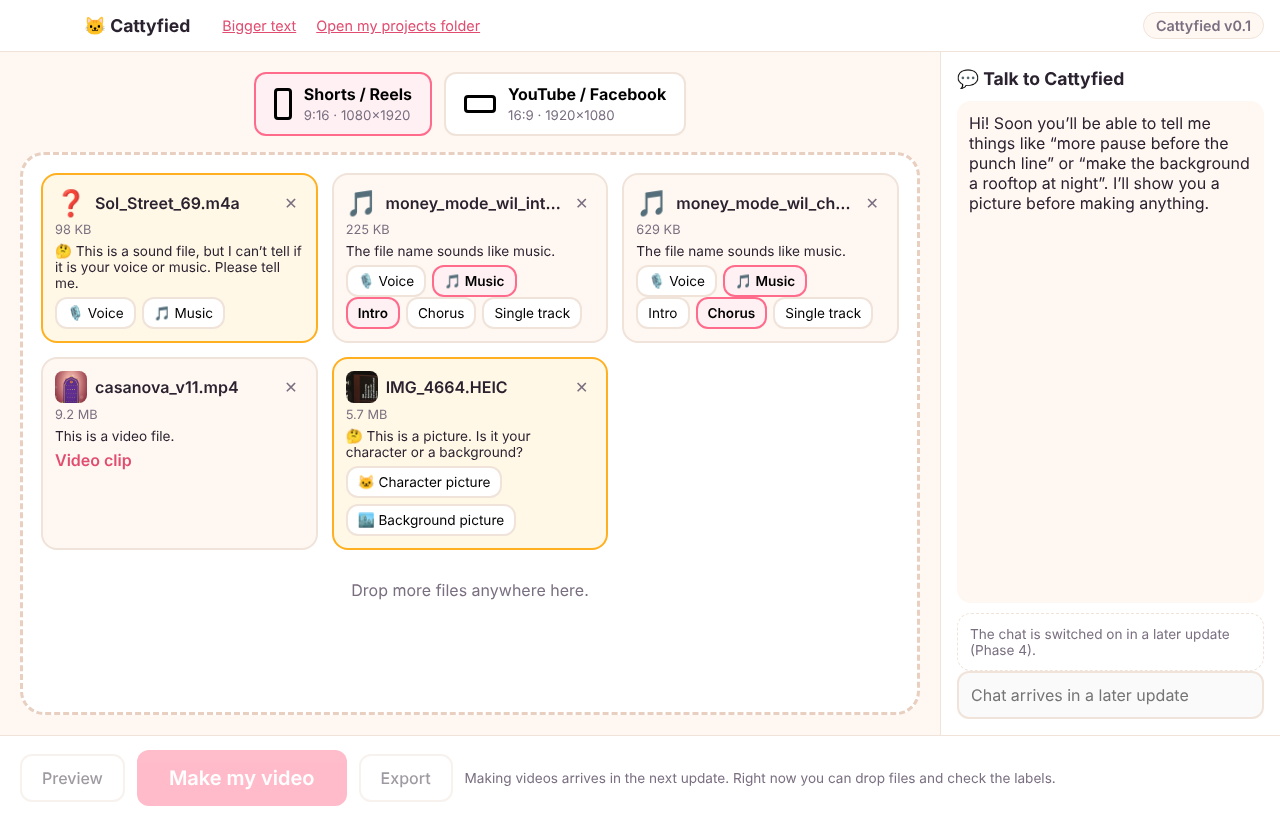
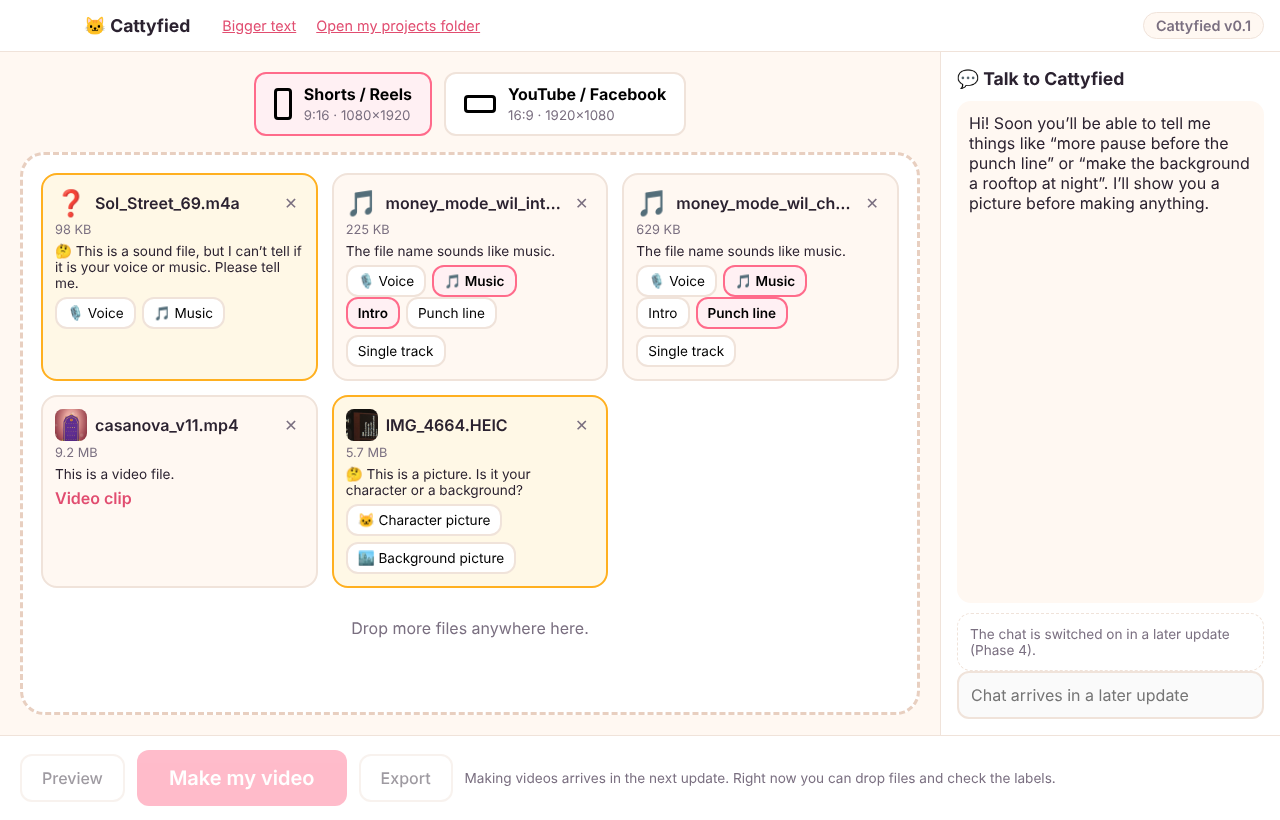
Rename the 'Chorus' music tag to 'Punch line'
Claude-Session: https://claude.ai/code/session_01B3wwg5k7oKN67GuHprANN3

Changed region(s): [[0.0312, 0.3659, 0.5625, 0.7317], [0.2812, 0.7622, 0.4688, 0.7927], [0.5625, 0.3659, 0.6875, 0.3963]]

diff --git a/src/engine/classify.ts b/src/engine/classify.ts
@@ -20,21 +20,22 @@ export interface Guess {
 }
 
 /**
- * When a music file is part of an intro→chorus pair (see the brief, section 5.5): the intro plays
- * first and ends on a hit, the chorus then starts at that hit. "main" = a single, standalone bed.
+ * When a music file is part of an intro→punch-line pair (see the brief, section 5.5): the intro
+ * plays first and ends on a hit; the punch-line track then starts right at that hit, timed to the
+ * character's line. "main" = a single, standalone bed with no separate intro.
  */
-export type MusicRole = 'intro' | 'chorus' | 'main'
+export type MusicRole = 'intro' | 'punchline' | 'main'
 
 const INTRO_WORDS = ['intro', 'into', 'lead-in', 'leadin', 'open', 'opening', 'buildup', 'build-up']
-const CHORUS_WORDS = ['chorus', 'hook', 'drop', 'main', 'loop']
+const PUNCHLINE_WORDS = ['chorus', 'hook', 'drop', 'main', 'loop', 'punch', 'punchline']
 
-/** Guess whether a music file is the intro or the chorus/main part, from its file name only. */
+/** Guess whether a music file is the intro or the punch-line part, from its file name only. */
 export function guessMusicRole(fileName: string): { role: MusicRole; ambiguous: boolean } {
   const ws = words(fileName)
   const i = hits(ws, INTRO_WORDS)
-  const c = hits(ws, CHORUS_WORDS)
-  if (i > c) return { role: 'intro', ambiguous: false }
-  if (c > i) return { role: 'chorus', ambiguous: false }
+  const p = hits(ws, PUNCHLINE_WORDS)
+  if (i > p) return { role: 'intro', ambiguous: false }
+  if (p > i) return { role: 'punchline', ambiguous: false }
   return { role: 'main', ambiguous: true }
 }
 

diff --git a/src/renderer/src/components/DropZone.tsx b/src/renderer/src/components/DropZone.tsx
@@ -18,7 +18,7 @@ const ICON: Record<AssetKind, string> = {
   voice: '🎙', music: '🎵', character: '🐱', background: '🏙', video: '🎬', notes: '📝', unknown: '❓'
 }
 
-const ROLE_LABEL: Record<MusicRole, string> = { intro: 'Intro', chorus: 'Chorus', main: 'Single track' }
+const ROLE_LABEL: Record<MusicRole, string> = { intro: 'Intro', punchline: 'Punch line', main: 'Single track' }
 
 function prettySize(n: number): string {
   if (n > 1e9) return `${(n / 1e9).toFixed(1)} GB`
@@ -120,9 +120,9 @@ export default function DropZone({ cards, setCards }: { cards: AssetCard[]; setC
 
                   {c.kind === 'music' && (
                     <>
-                      {needsRole && <div className="card-reason">🤔 Does this play first (intro) or is it the main part (chorus)?</div>}
+                      {needsRole && <div className="card-reason">🤔 Does this play first (intro), or is it the part that plays on the punch line?</div>}
                       <div className="card-labels">
-                        {(['intro', 'chorus', 'main'] as MusicRole[]).map((r) => (
+                        {(['intro', 'punchline', 'main'] as MusicRole[]).map((r) => (
                           <button
                             key={r}
                             className={`chip ${c.musicRole === r && c.roleKnown ? 'on' : ''}`}

diff --git a/tests/engine.test.ts b/tests/engine.test.ts
@@ -31,10 +31,10 @@ describe('file labelling', () => {
   })
 })
 
-describe('intro vs chorus music', () => {
-  it('spots the intro and chorus files from a real pair', () => {
+describe('intro vs punch-line music', () => {
+  it('spots the intro and punch-line files from a real pair', () => {
     expect(guessMusicRole('money_mode_wil_intro.mp3')).toEqual({ role: 'intro', ambiguous: false })
-    expect(guessMusicRole('money_mode_wil_chorus_1.mp3')).toEqual({ role: 'chorus', ambiguous: false })
+    expect(guessMusicRole('money_mode_wil_chorus_1.mp3')).toEqual({ role: 'punchline', ambiguous: false })
   })
   it('asks when a music file name gives no clue', () => {
     expect(guessMusicRole('track01.wav').ambiguous).toBe(true)
